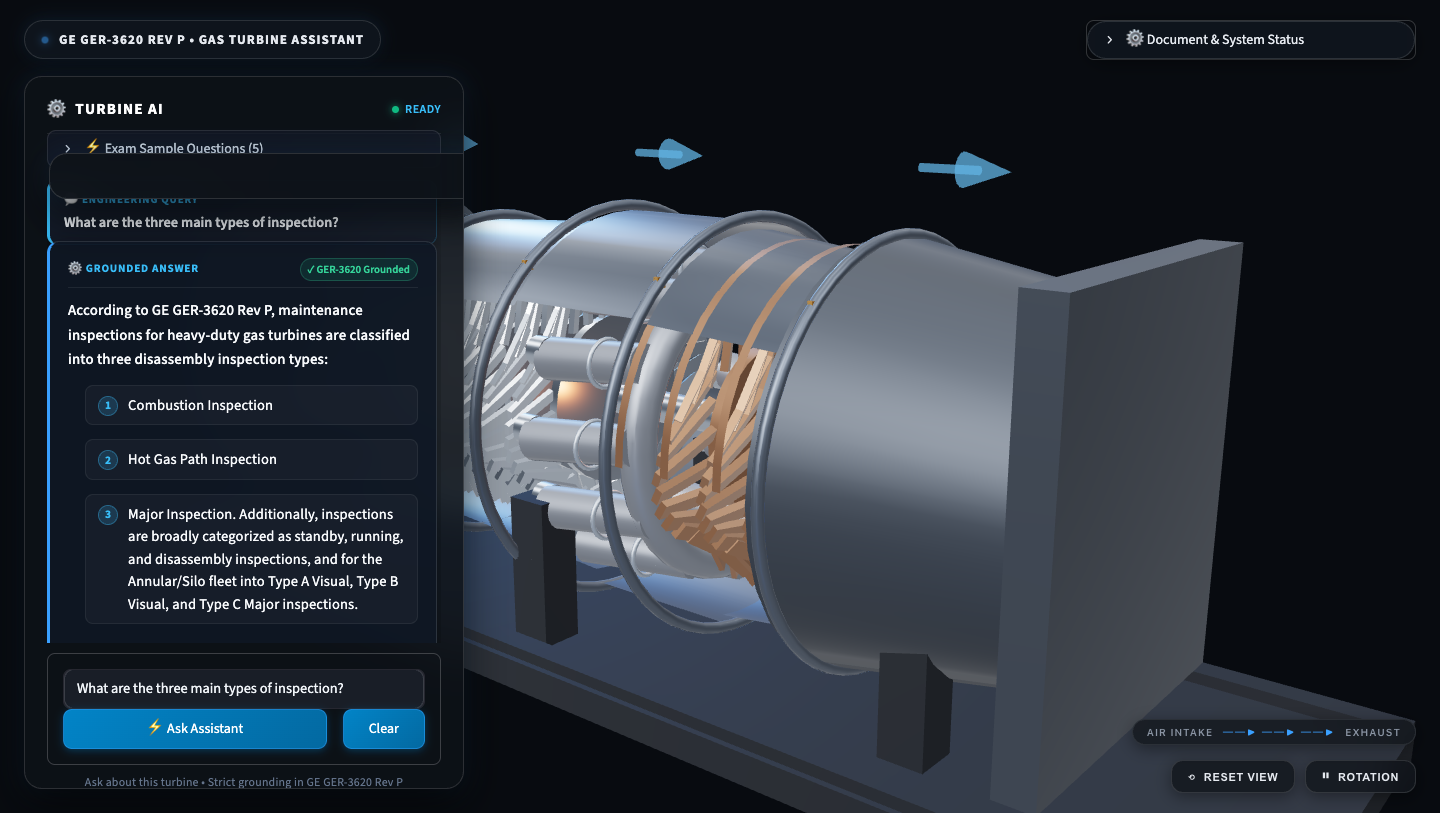
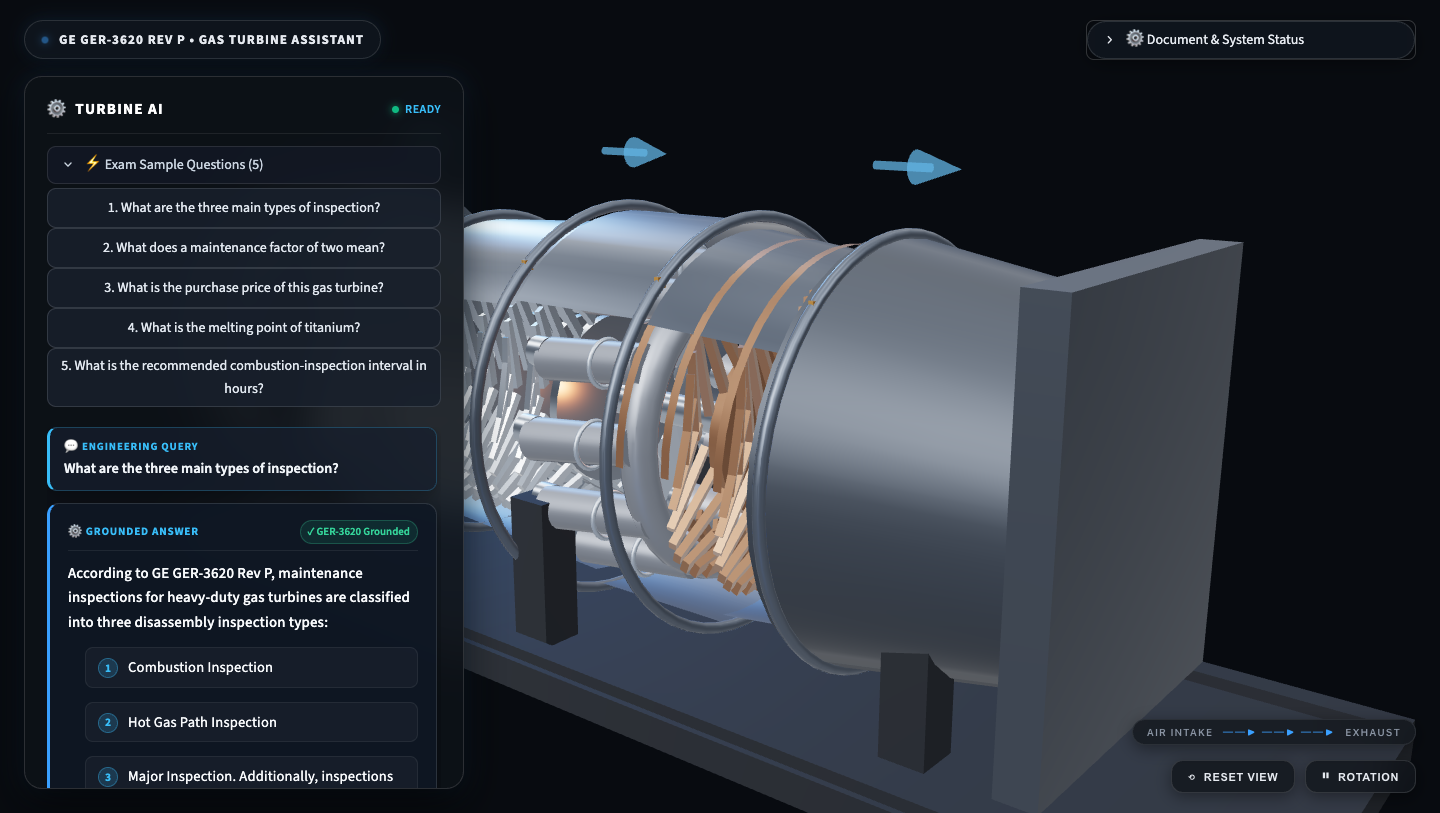
fix(ui): isolate floating chat panel surface and collapse Streamlit layout wrappers

diff --git a/app.py b/app.py
@@ -184,7 +184,7 @@ st.markdown(
 
     /* 2. Fullscreen 3D Turbine Viewport Container */
     .st-key-turbine_fullscreen_bg,
-    div:has(> #turbine-fullscreen-anchor) {
+    div[data-testid="stVerticalBlock"].st-key-turbine_fullscreen_bg {
         position: fixed !important;
         top: 0 !important;
         left: 0 !important;
@@ -197,12 +197,24 @@ st.markdown(
         border: none !important;
         pointer-events: auto !important;
     }
-    .st-key-turbine_fullscreen_bg iframe,
-    div:has(> #turbine-fullscreen-anchor) iframe {
+    .st-key-turbine_fullscreen_bg iframe {
         width: 100vw !important;
         height: 100vh !important;
         border: none !important;
         display: block !important;
+    }
+    div:has(> .st-key-turbine_fullscreen_bg),
+    [data-testid="stLayoutWrapper"]:has(> .st-key-turbine_fullscreen_bg) {
+        position: static !important;
+        width: 0 !important;
+        min-width: 0 !important;
+        max-width: 0 !important;
+        height: 0 !important;
+        min-height: 0 !important;
+        max-height: 0 !important;
+        margin: 0 !important;
+        padding: 0 !important;
+        pointer-events: none !important;
     }
 
     /* 3. Top Header Brand Bar (Floating Top-Left) */
@@ -248,7 +260,7 @@ st.markdown(
 
     /* 4. Top-Right System & Document Status Expander Container */
     .st-key-top_status_panel,
-    div:has(> #top-status-anchor) {
+    div[data-testid="stVerticalBlock"].st-key-top_status_panel {
         position: fixed !important;
         top: 20px !important;
         right: 24px !important;
@@ -256,11 +268,22 @@ st.markdown(
         width: 330px !important;
         pointer-events: auto !important;
     }
+    div:has(> .st-key-top_status_panel),
+    [data-testid="stLayoutWrapper"]:has(> .st-key-top_status_panel) {
+        position: static !important;
+        width: 0 !important;
+        min-width: 0 !important;
+        max-width: 0 !important;
+        height: 0 !important;
+        min-height: 0 !important;
+        max-height: 0 !important;
+        margin: 0 !important;
+        padding: 0 !important;
+        pointer-events: none !important;
+    }
     .st-key-top_status_panel [data-testid="stExpander"] summary,
     .st-key-top_status_panel .stExpander summary,
-    .st-key-top_status_panel .streamlit-expanderHeader,
-    div:has(> #top-status-anchor) [data-testid="stExpander"] summary,
-    div:has(> #top-status-anchor) .streamlit-expanderHeader {
+    .st-key-top_status_panel .streamlit-expanderHeader {
         background: rgba(16, 22, 30, 0.82) !important;
         backdrop-filter: blur(16px) !important;
         -webkit-backdrop-filter: blur(16px) !important;
@@ -274,9 +297,7 @@ st.markdown(
     }
     .st-key-top_status_panel [data-testid="stExpander"] [data-testid="stExpanderDetails"],
     .st-key-top_status_panel .stExpander [data-testid="stExpanderDetails"],
-    .st-key-top_status_panel .streamlit-expanderContent,
-    div:has(> #top-status-anchor) [data-testid="stExpander"] [data-testid="stExpanderDetails"],
-    div:has(> #top-status-anchor) .streamlit-expanderContent {
+    .st-key-top_status_panel .streamlit-expanderContent {
         background: rgba(14, 18, 24, 0.94) !important;
         backdrop-filter: blur(20px) !important;
         -webkit-backdrop-filter: blur(20px) !important;
@@ -288,8 +309,9 @@ st.markdown(
     }
 
     /* 5. Floating Glassmorphism Chat Panel (Left Side Viewport) */
-    .st-key-floating_chat_panel,
-    div:has(> #floating-chat-anchor) {
+    /* Target strictly the outer chat panel container surface */
+    div[data-testid="stVerticalBlock"].st-key-floating_chat_panel,
+    .stVerticalBlock.st-key-floating_chat_panel {
         position: fixed !important;
         top: 76px !important;
         left: 24px !important;
@@ -307,6 +329,42 @@ st.markdown(
         overflow-y: auto !important;
         overflow-x: hidden !important;
         pointer-events: auto !important;
+    }
+
+    /* Collapse Streamlit's full-width wrapper so it never creates a 1440px overlay across the turbine */
+    div:has(> .st-key-floating_chat_panel),
+    [data-testid="stLayoutWrapper"]:has(> .st-key-floating_chat_panel) {
+        position: static !important;
+        width: 0 !important;
+        min-width: 0 !important;
+        max-width: 0 !important;
+        height: 0 !important;
+        min-height: 0 !important;
+        max-height: 0 !important;
+        margin: 0 !important;
+        padding: 0 !important;
+        pointer-events: none !important;
+        border: none !important;
+        background: transparent !important;
+        box-shadow: none !important;
+    }
+
+    /* Ensure nested wrappers inside the chat panel have transparent backgrounds and normal static flow */
+    .st-key-floating_chat_panel .stElementContainer,
+    .st-key-floating_chat_panel [data-testid="stElementContainer"],
+    .st-key-floating_chat_panel [data-testid="stLayoutWrapper"],
+    .st-key-floating_chat_panel .stMarkdown,
+    .st-key-floating_chat_panel [data-testid="stMarkdownContainer"] {
+        background: transparent !important;
+        position: static !important;
+        border: none !important;
+        box-shadow: none !important;
+        backdrop-filter: none !important;
+        -webkit-backdrop-filter: none !important;
+        padding: 0 !important;
+        margin: 0 !important;
+        width: 100% !important;
+        max-width: 100% !important;
     }
 
     /* Chat Panel Header */
@@ -690,8 +748,8 @@ st.markdown(
 
     /* Responsive adjustments */
     @media (max-width: 768px) {
-        .st-key-floating_chat_panel,
-        div:has(> #floating-chat-anchor) {
+        div[data-testid="stVerticalBlock"].st-key-floating_chat_panel,
+        .stVerticalBlock.st-key-floating_chat_panel {
             top: auto !important;
             left: 12px !important;
             bottom: 12px !important;
@@ -699,8 +757,7 @@ st.markdown(
             max-width: calc(100vw - 24px) !important;
             max-height: 65vh !important;
         }
-        .st-key-top_status_panel,
-        div:has(> #top-status-anchor) {
+        .st-key-top_status_panel {
             display: none !important;
         }
     }
@@ -737,7 +794,6 @@ if pdf_ready:
 # LAYER 1: Full-Screen 3D Turbine Viewer (Viewport Background)
 # =========================================================================
 with st.container(key="turbine_fullscreen_bg"):
-    st.markdown('<div id="turbine-fullscreen-anchor"></div>', unsafe_allow_html=True)
     viewer_event = turbine_viewer(
         selected_id=st.session_state.get("turbine_selected"),
         height=950,
@@ -772,7 +828,6 @@ st.markdown(
 # LAYER 3: Floating Document & System Status (Top Right Dropdown Expander)
 # =========================================================================
 with st.container(key="top_status_panel"):
-    st.markdown('<div id="top-status-anchor"></div>', unsafe_allow_html=True)
     with st.expander("⚙ Document & System Status", expanded=False):
         if stats:
             has_gemini = bool(GEMINI_API_KEY and USE_GEMINI)
@@ -819,8 +874,6 @@ with st.container(key="top_status_panel"):
 # LAYER 4: Floating Glassmorphism Chat Panel (Lower Left)
 # =========================================================================
 with st.container(key="floating_chat_panel"):
-    st.markdown('<div id="floating-chat-anchor"></div>', unsafe_allow_html=True)
-
     # Chat Header
     st.markdown(
         """
